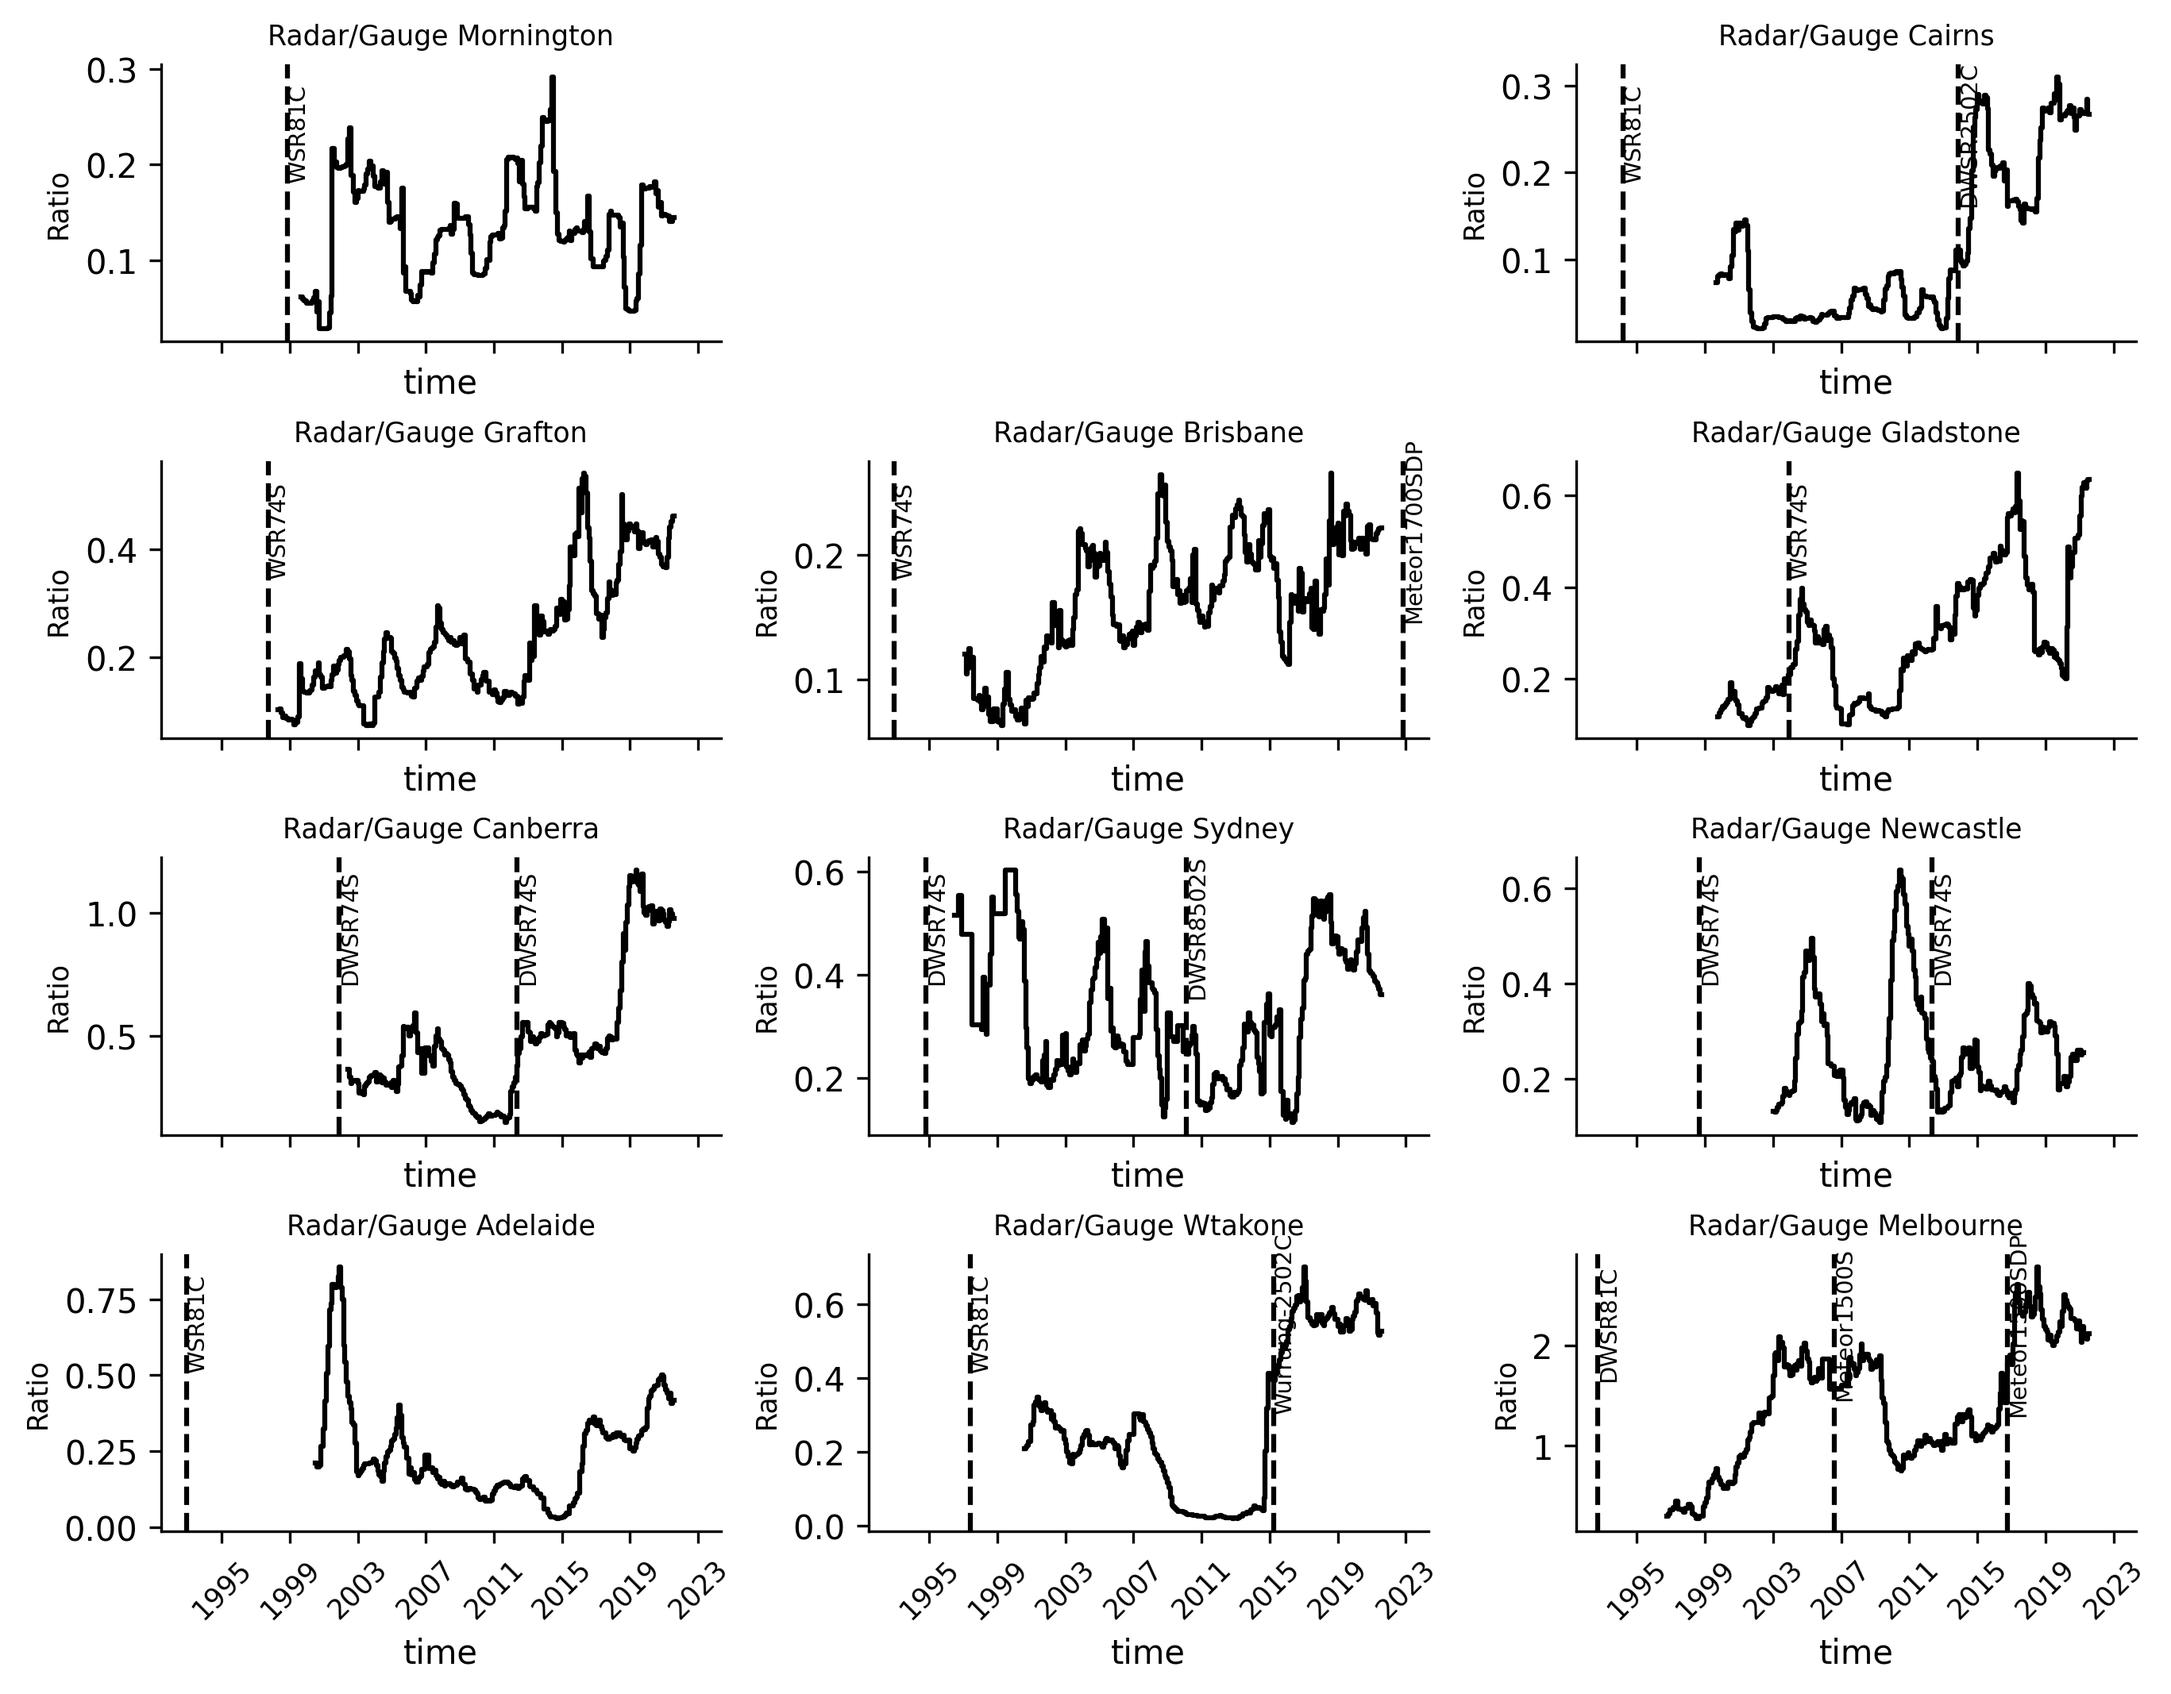
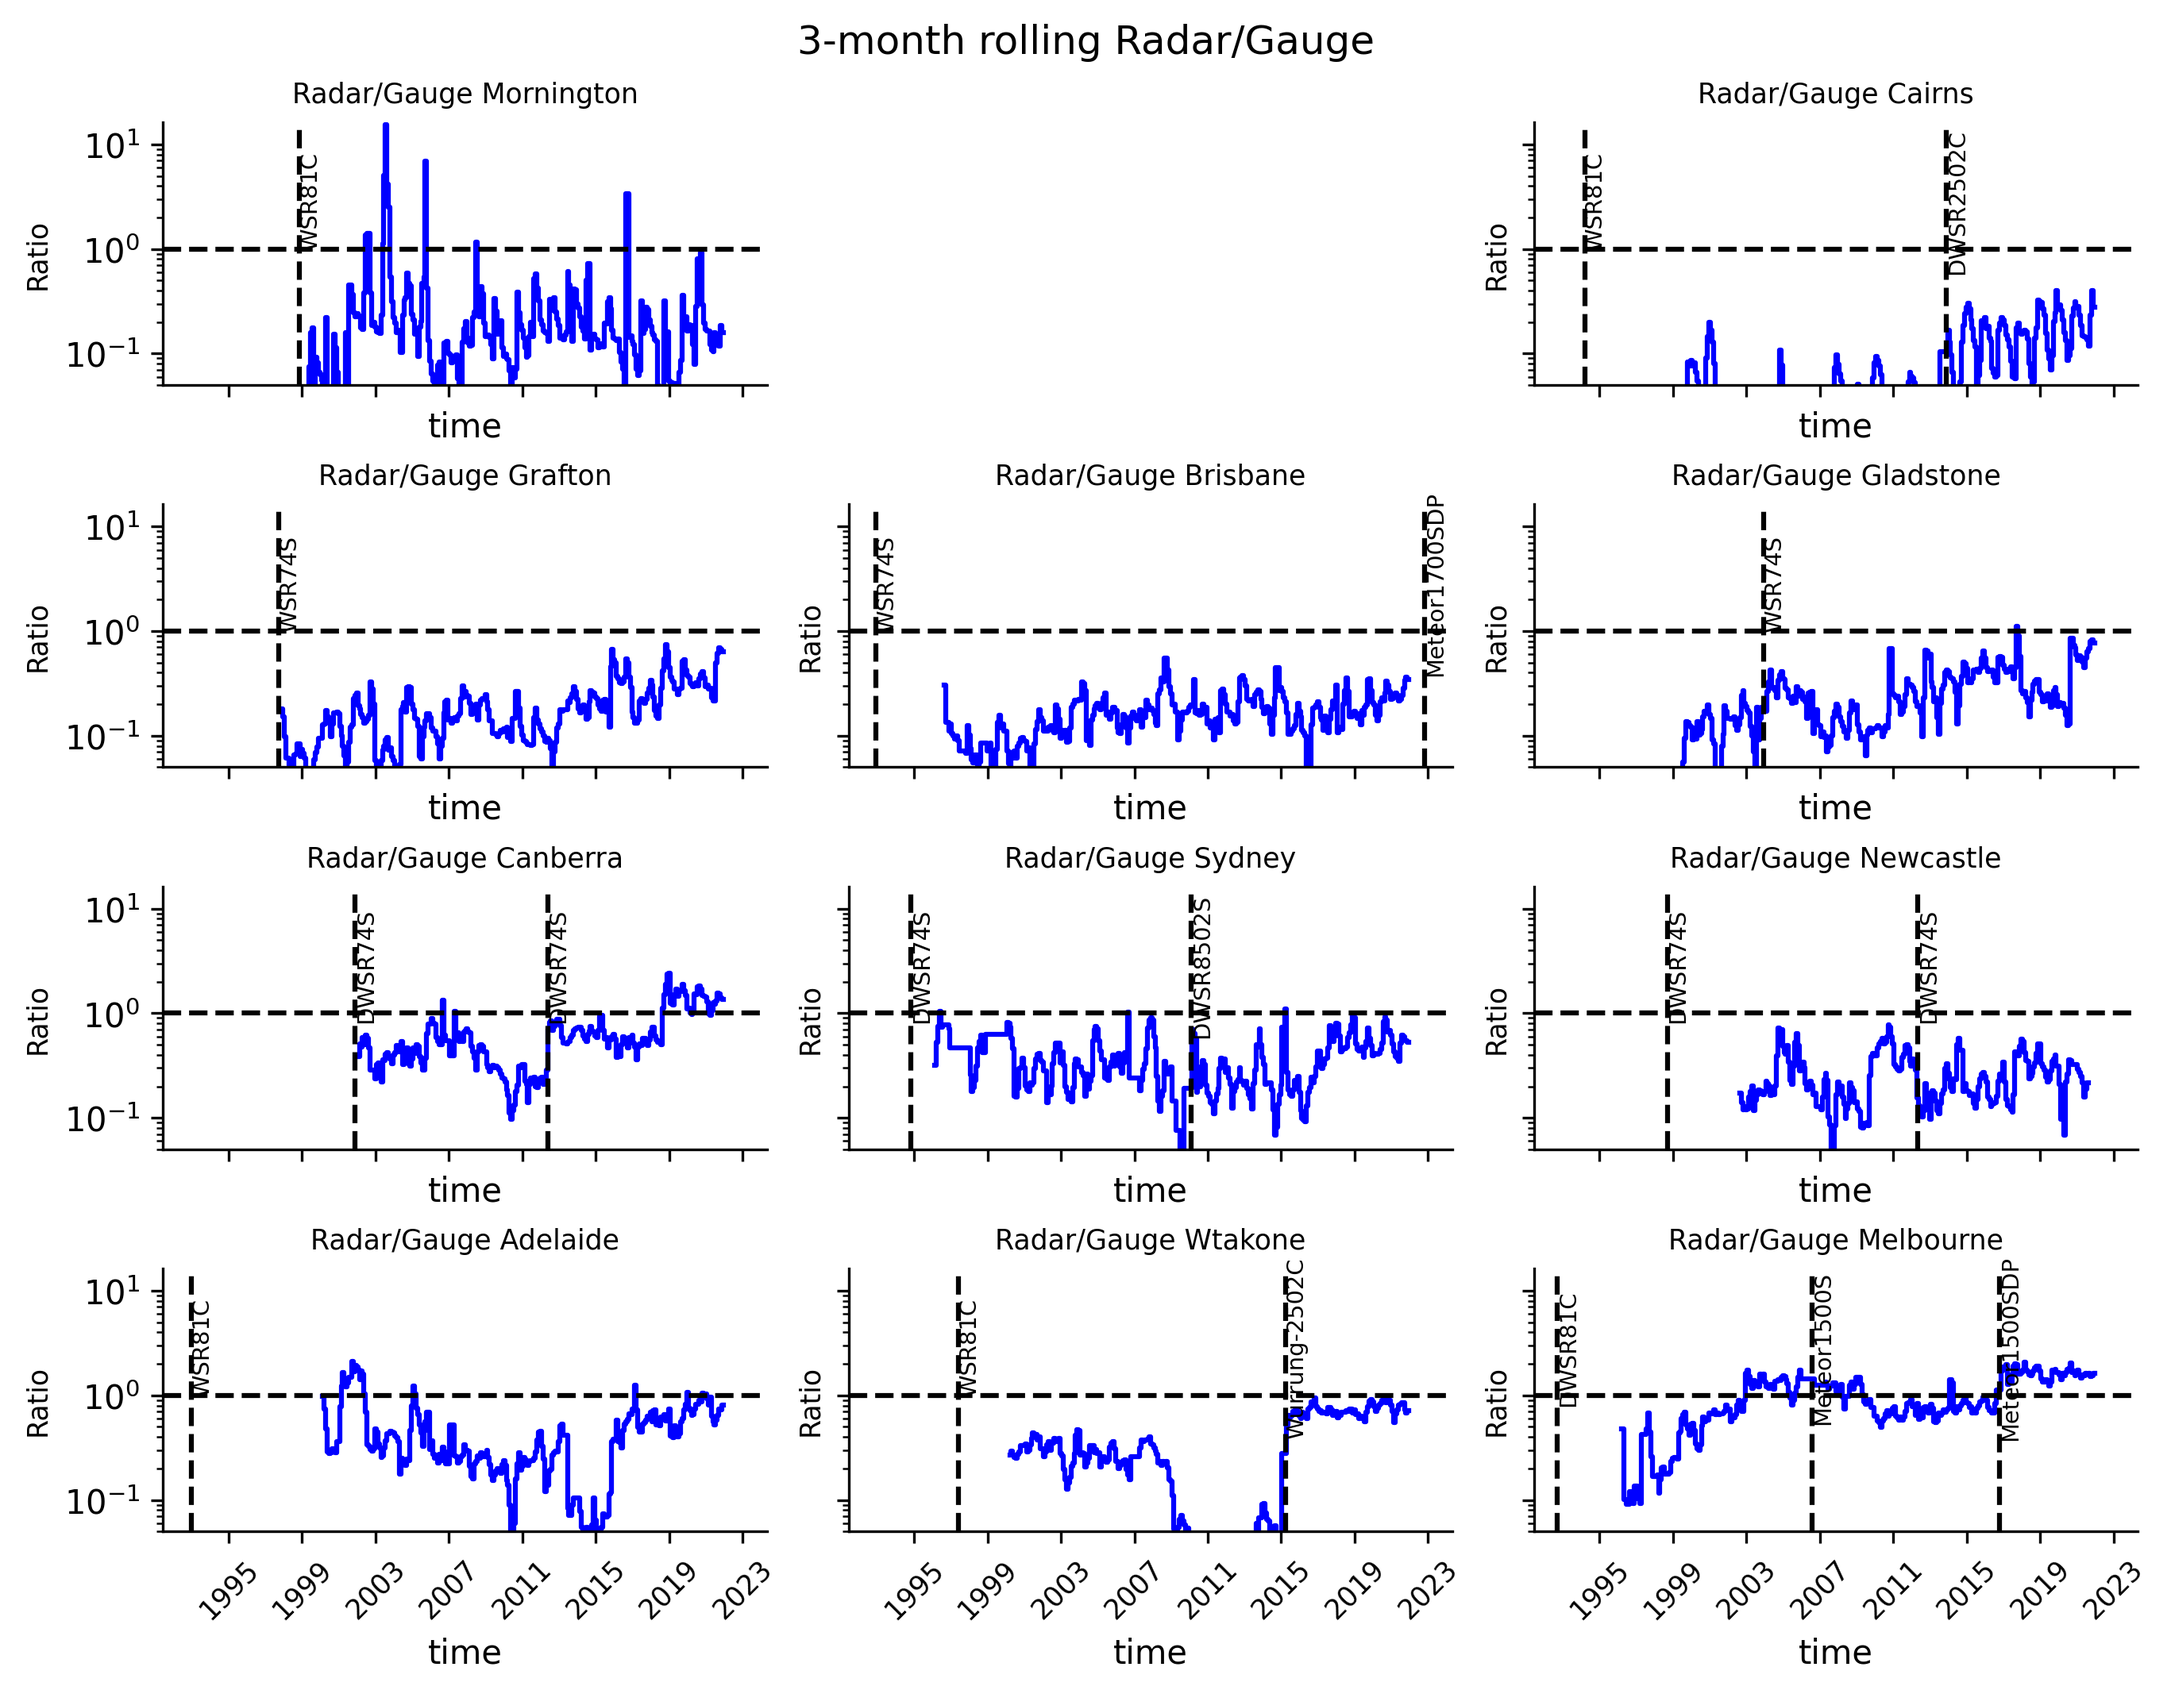
Making cleaner figures.

diff --git a/plot_mean_monthly_rain.py b/plot_mean_monthly_rain.py
@@ -11,6 +11,7 @@ import numpy as np
 import commonLib
 import cartopy
 import cartopy.geodesic
+import cartopy.crs as ccrs
 
 
 
@@ -44,7 +45,14 @@ if not ('read_plot_mean_monthly_rain' in locals() and read_plot_mean_monthly_rai
         mean_rain = ds.mean_raw_rain_rate.sel(**rgn).mean(['x','y']).load()
         total_rain[site] = mean_rain*mean_rain.time.dt.days_in_month*24
         #site_info[site] = ausLib.site_info(ausLib.site_numbers[site])
-        gauge_total[site] = ds_obs.precip.sel(lon=site_rec.site_lon,lat=site_rec.site_lat,method='nearest').load()
+        # wprk out region for gauge -- convert from m to long/l
+        radar_proj = ausLib.radar_projection(ds.proj.attrs)
+        trans_coords = ccrs.PlateCarree().transform_points(radar_proj,
+                                                           x=np.array([-75e3,75e3]), y=np.array([-75e3,75e3]))
+        lon_slice = slice(trans_coords[0,0],trans_coords[1,0])
+        lat_slice = slice(trans_coords[0,1],trans_coords[1,1])
+
+        gauge_total[site] = ds_obs.precip.sel(lon=lon_slice,lat=lat_slice).mean(['lon','lat']).load()
         my_logger.info(f'Loaded data for {site}')
     # read in the Sydney sens studies.
     for file in sydney_sens_studies:
@@ -67,29 +75,40 @@ else:
 
 
 ## now to plot data
-fig,axs = ausLib.std_fig_axs('monthly_mean_rain',sharex=True,clear=True)
-fig2,axs2 = ausLib.std_fig_axs('monthly_mean_rain_ratio',sharex=True,clear=True)
+fig,axs = ausLib.std_fig_axs('monthly_mean_rain',sharex=True,sharey=True,clear=True)
+fig2,axs2 = ausLib.std_fig_axs('monthly_mean_rain_ratio',sharex=True,sharey=True,clear=True)
+roll_window =12
+roll_window_ratio = 3
 for site,ax in axs.items():
     #total_rain[site].plot(ax=ax,drawstyle='steps-mid',color='k')
     #gauge_total[site].plot(ax=ax,drawstyle='steps-mid',color='purple',alpha=0.5)
-    total_rain[site].rolling(time=12,center=True).mean().plot(ax=ax,drawstyle='steps-mid',color='k')
-    gauge_total[site].rolling(time=12,center=True).mean().plot(ax=ax,drawstyle='steps-mid',color='purple',alpha=0.5)
+    total_rain[site].resample(time='QS-DEC').sum().plot(ax=ax,drawstyle='steps-post',color='blue')
+    gauge_total[site].resample(time='QS-DEC').sum().plot(ax=ax,drawstyle='steps-post',color='purple')
     ax.set_ylabel('Total  (mm)',size='small')
-    ausLib.plot_radar_change(ax,site_info[site])
+
     ax.set_title(site)
     ax.tick_params(axis='x', labelsize='small',rotation=45) # set small font!
+    ax.set_ylim(10, None)
+
     # plot ratio
     ax2 = axs2[site]
-    gt  = gauge_total[site].rolling(time=12,center=True).mean()
-    rt = total_rain[site].rolling(time=12,center=True).mean()
+    gt  = gauge_total[site].rolling(time=roll_window_ratio,center=True).mean()
+    rt = total_rain[site].rolling(time=roll_window_ratio,center=True).mean()
     gt = gt.interp_like(rt)
     ratio = rt/gt
-    ratio.plot(ax=ax2,drawstyle='steps-mid',color='k')
-    ausLib.plot_radar_change(ax2,site_info[site])
+    ratio.plot(ax=ax2,drawstyle='steps-post',color='blue')
+
     ax2.set_title(f'Radar/Gauge {site}',size='small')
     ax2.set_ylabel('Ratio',size='small')
     ax2.tick_params(axis='x', labelsize='small',rotation=45) # set small font!
+    ax2.axhline(1.0,linestyle='dashed',color='k')
+    ax2.set_ylim(0.05,None)
+    for a in [ax,ax2]:
+        a.set_yscale('log')
+        ausLib.plot_radar_change(a, site_info[site])
 
+fig.suptitle('Seasonal mean rainfall')
+fig2.suptitle('3-month rolling Radar/Gauge')
 fig.show()
 fig2.show()
 fig_dir = pathlib.Path('extra_figs')
@@ -100,19 +119,26 @@ for f in [fig,fig2]:
 # now to plot the Sydney sensitivity studies
 fig,(ax,ax_ratio) = plt.subplots(1,2,figsize=(8,6),num='sydney_ss_mean_monthly_rain',
                        sharex=True,clear=True,layout='constrained')
-gauge=gauge_total['Sydney'].rolling(time=12,center=True).mean()
+gauge=gauge_total['Sydney'].resample(time='QS-DEC').sum()
+gauge_rolling = gauge.rolling(time=roll_window_ratio,center=True).mean()
 for file,col in zip(sydney_sens_studies,['red','blue','green','brown']):
-    rm=total_rain[file].rolling(time=12,center=True).mean()
-    rm.plot(ax=ax,drawstyle='steps-mid',color=col,label=file)
+    rm=total_rain[file].resample(time='QS-DEC').sum()
+    rm.plot(ax=ax,drawstyle='steps-post',
+            color=col,label=file.replace('Sydney_rain_',''))
+    rm = total_rain[file].rolling(time=roll_window_ratio,center=True).mean()
     ratio = rm/gauge.interp_like(rm)
-    ratio.plot(ax=ax_ratio,drawstyle='steps-mid',color=col,label=file)
-gauge.plot(ax=ax,label='AGCD gauge',drawstyle='steps-mid',color='purple',alpha=0.5)
+    ratio.plot(ax=ax_ratio,drawstyle='steps-post',color=col,label=file)
+gauge.plot(ax=ax,label='AGCD gauge',drawstyle='steps-mid',color='purple')
 ax.set_ylabel('Total  (mm)',size='small')
 ax.set_title('Sydney total rainfall')
+ax.set_ylim(10, 1000)
 ax_ratio.set_title('Radar/Gauge Sydney')
+ax_ratio.axhline(1.0, linestyle='dashed', color='k')
+ax_ratio.set_ylim(0.05, 10)
 for a in [ax,ax_ratio]:
     a.set_xlabel('Time')
     a.tick_params(axis='x', labelsize='small',rotation=45) # set small font!
+    a.set_yscale('log')
     ausLib.plot_radar_change(a,site_info['Sydney'])
 
 ax.legend()

diff --git a/ausLib.py b/ausLib.py
@@ -1400,6 +1400,7 @@ def plot_radar_change(ax:matplotlib.pyplot.axes,radar_site:pd.DataFrame):
     for name, r in radar_site.iterrows():
         x = np.datetime64(r['postchange_start'])
         ax.axvline(x, color='k', linestyle='--')
-        ax.text(x, y, r.radar_type, ha='left', va='center', fontsize='x-small', rotation=90)
+        ax.text(x, 0.7, r.radar_type, transform=ax.get_xaxis_transform(),
+                ha='left', va='center', fontsize='x-small', rotation=90)
 
 
